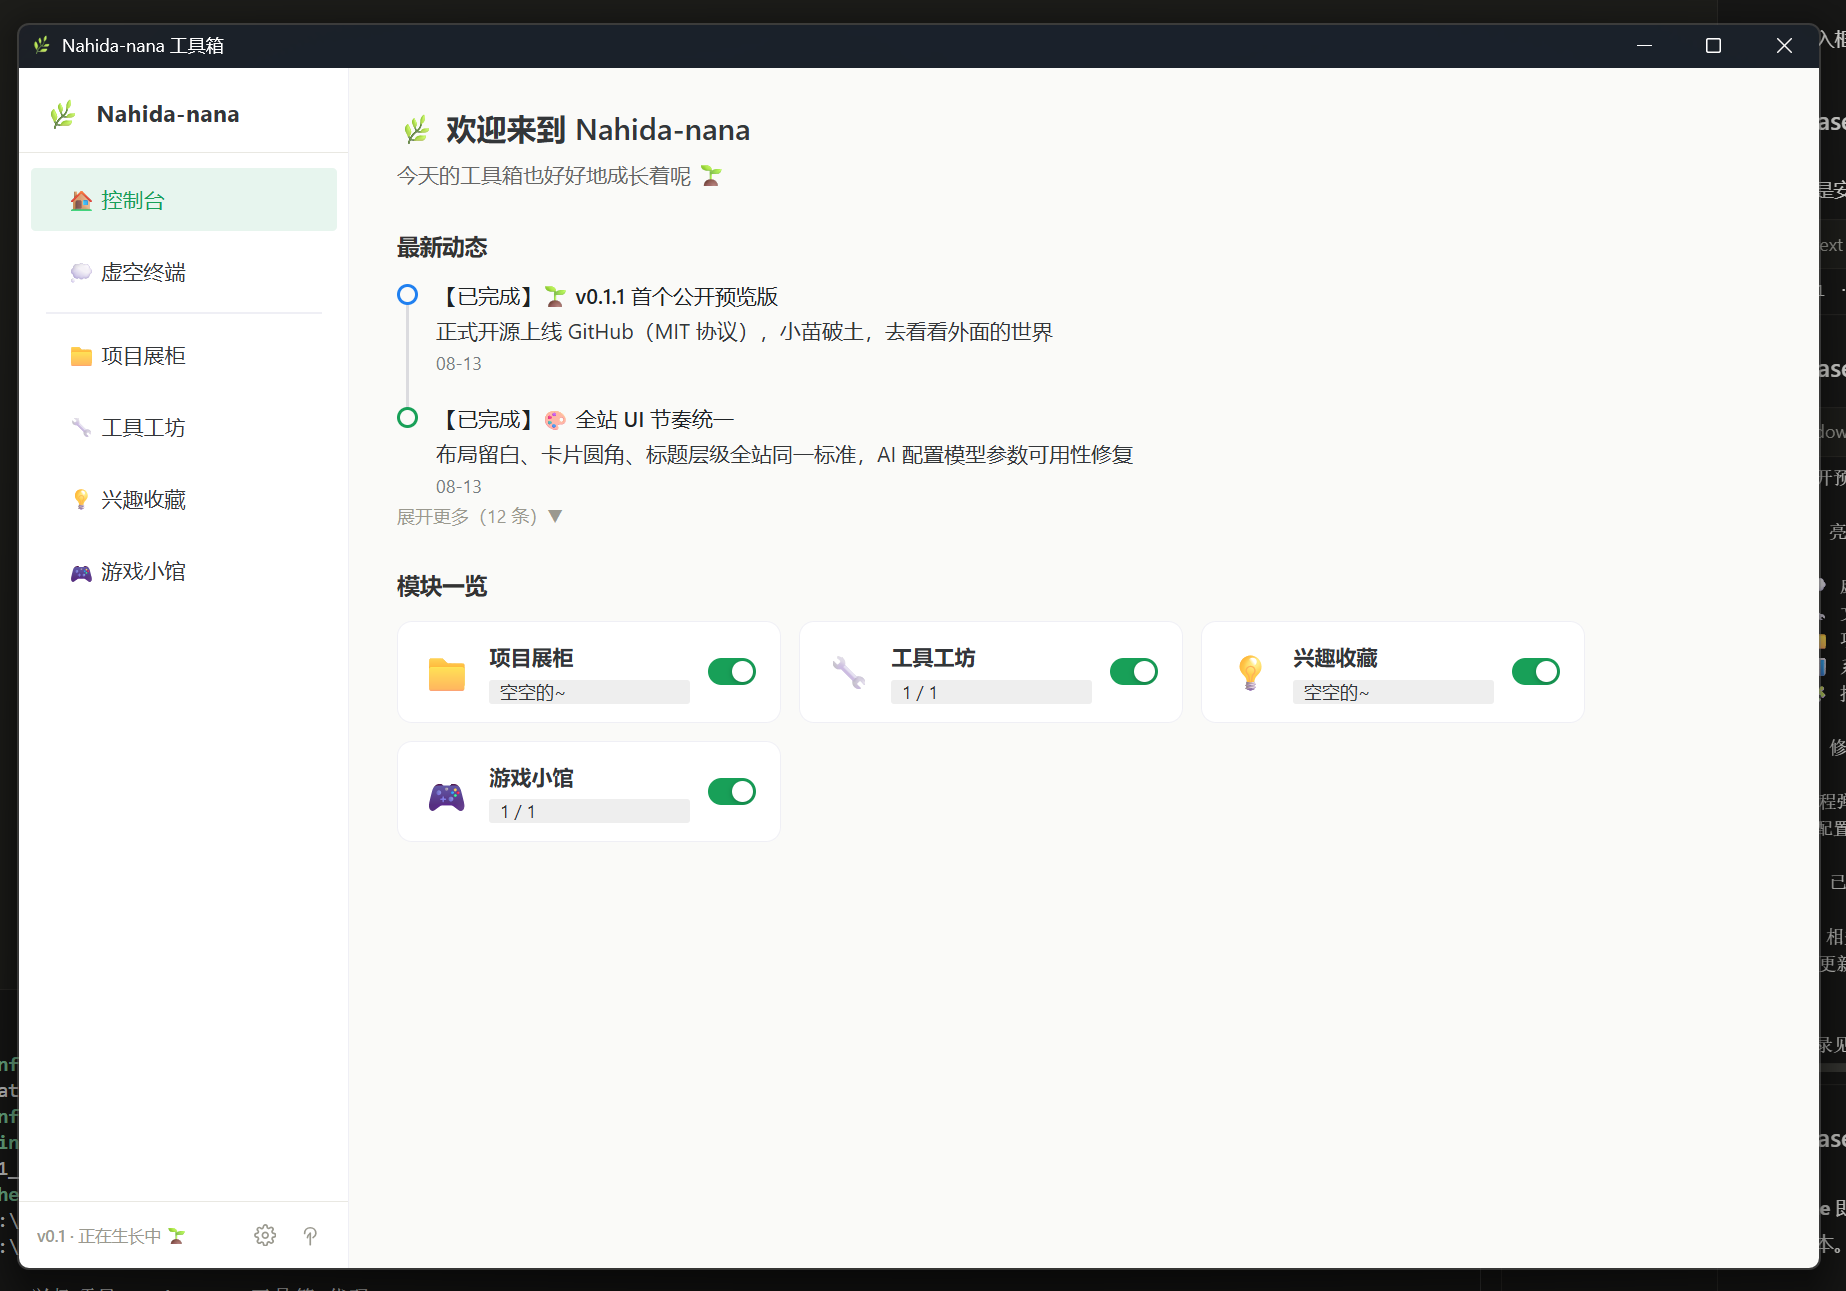
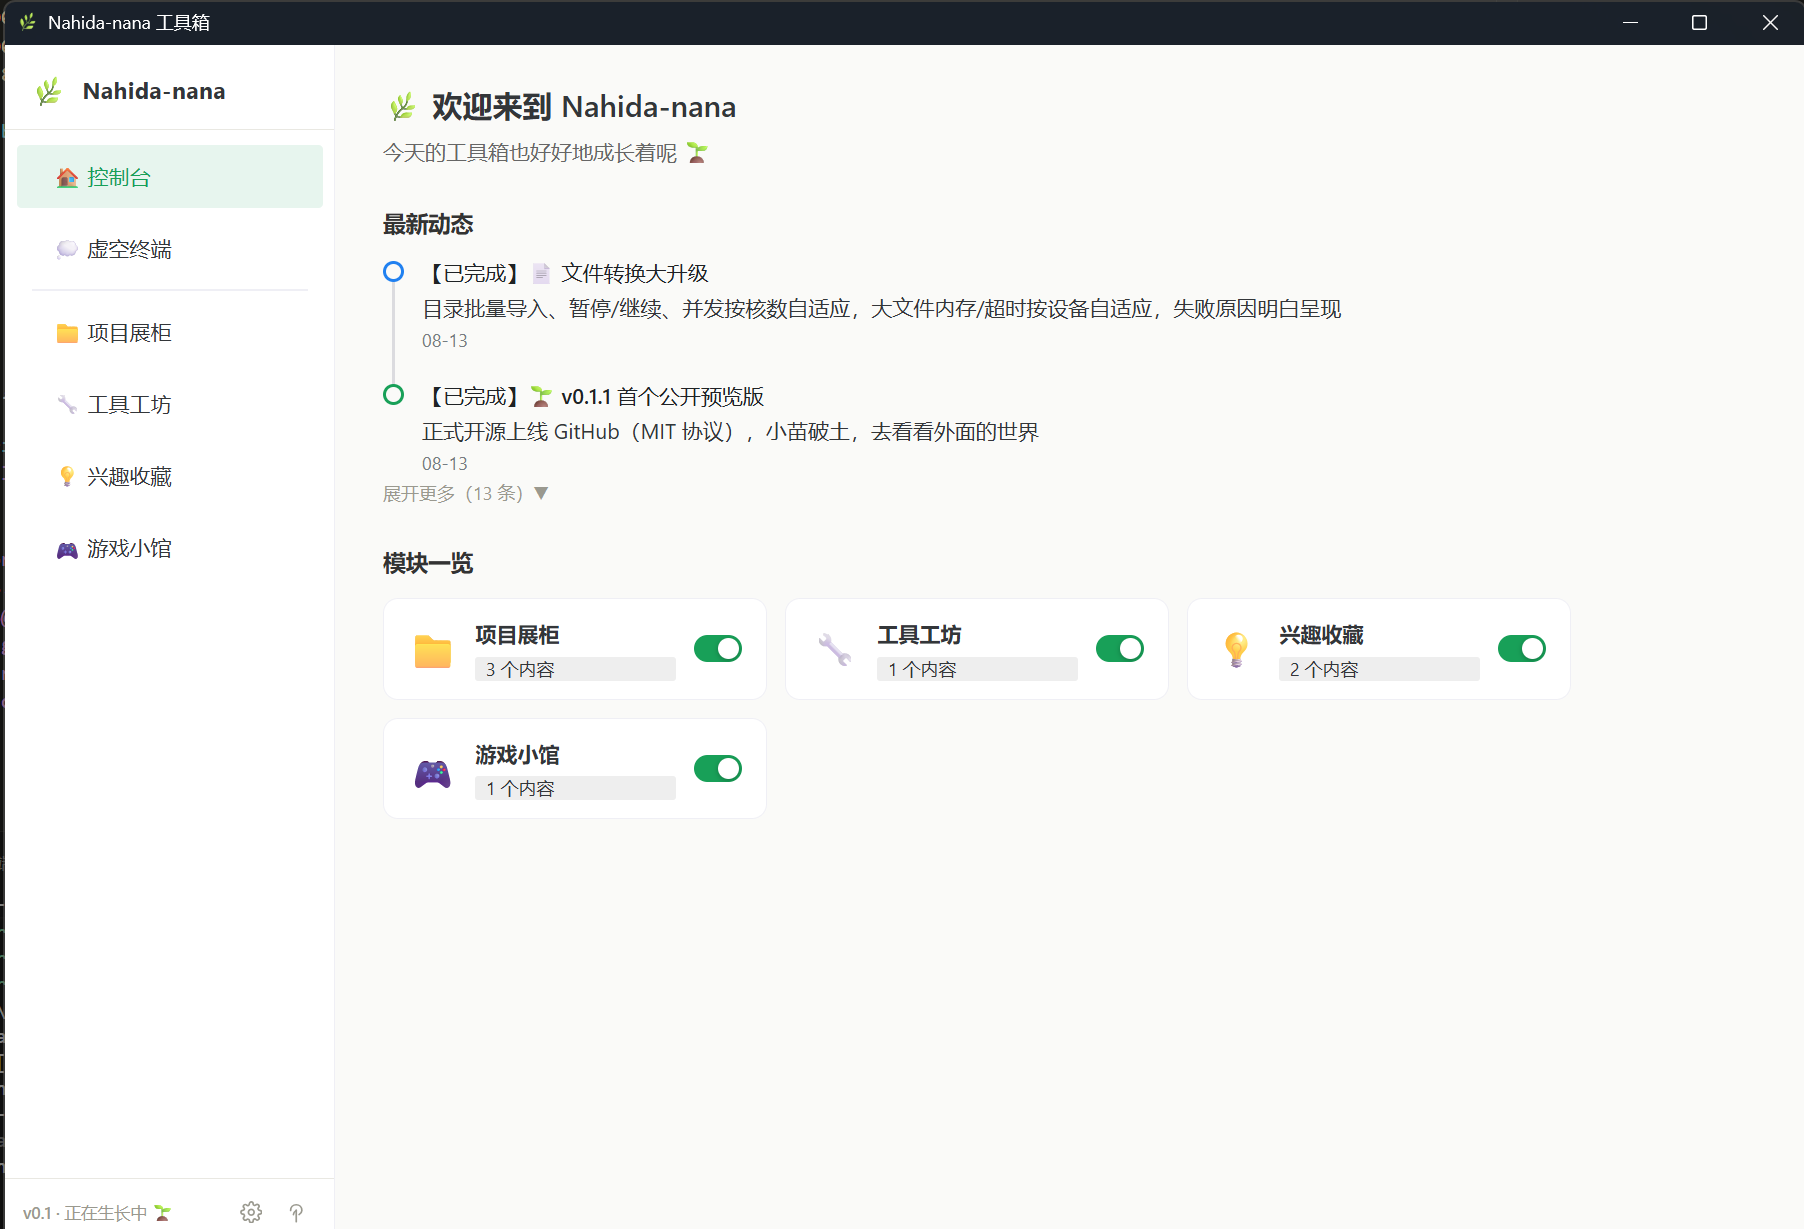
docs: v0.1.2 发布文档同步——CHANGELOG 按 v0.1.1 基线重写（去中间过程、补格式支持/依赖清理细节），README 更新转换能力与截图，requirements.txt 对齐实际依赖

diff --git a/CHANGELOG.md b/CHANGELOG.md
@@ -6,28 +6,29 @@
 
 ### ✨ 新增
 
-- 文件格式转换支持目录批量导入：拖拽文件夹、或拖放区点击「导入文件夹」，递归收集受支持文档（深度 ≤8，上限 500 个）
+- 目录批量导入：拖拽文件夹或点「选择文件夹」，递归收集受支持文档（深度 ≤8，上限 500 个，实时扫描进度反馈）
 - 转换中支持暂停/继续（进行中任务自然跑完，停派新任务）
 - 转换并发按 CPU 核数自动检测（核数 × 3/4，留 1/4 给系统，限幅 [2, 16]），充分利用多核
-- 同格式转换中性忽略：不计入成败，单独汇报「成功 X，失败 Y，忽略 N」
-- 导入成功提示：「导入成功：N 个文件，确认目标格式后点「开始转换」~」
-- 「开始转换」禁用原因悬停提示（未添加文件 / 未选输出目录 / 未选目标格式）
-- 文本读取编码自适应（新增 text_io.rs）：BOM 探测 → UTF-16 启发式 → UTF-8 → GB18030 兜底，GBK/UTF-16 老文件不再被拒
+- 同格式转换中性忽略：不计入成败，汇总单独汇报「成功 X，失败 Y，忽略 N」
+- 文本读取编码自适应（新增 text_io.rs）：BOM 探测 → UTF-16 启发式 → UTF-8 → GB18030 兜底，GBK/GB2312/UTF-16 老文件不再被拒或乱码
 
 ### 🔒 可靠性
 
 - 假成功全面清除：扫描版 PDF（无文字层）明确报错而非产出空文件；xhtml2pdf 渲染失败检查、reportlab XML 特殊字符转义、pdf2docx 空输出报错、流式转换器先读后写不留孤儿文件
 - 四层防空输出防线：Python 出口空输出报错、pdf_bridge 回退防护、convert_file 出口兜底校验、失败日志带文件名与具体原因
-- 子进程输出强制 UTF-8（PYTHONIOENCODING + 脚本内 reconfigure 双保险），根治中文 Windows 上错误信息乱码
-- 资源守卫按设备自适应：内存预算 = 物理内存 × 3/4 ÷ 并发数（替代旧 200MB 固定上限误杀大文件，保底 512MB）；超时按文件体积动态扩容（基础 5 分钟 + 每 100MB 追加 3 分钟，封顶 30 分钟）；非 PDF 原生路径超大文件入口守卫
+- 子进程输出强制 UTF-8，根治中文 Windows 上错误信息乱码
+- 资源守卫按设备自适应：内存预算 = 物理内存 × 3/4 ÷ 并发数（保底 512MB，替代误杀大文件的固定上限）；超时按文件体积动态扩容（基础 5 分钟 + 每 100MB 追加 3 分钟，封顶 30 分钟）；非 PDF 原生路径超大文件入口守卫
+
+### 🧹 格式支持与依赖清理
+
+- 支持格式弹窗展示完整转换矩阵与保真度说明；支持扩展名：md / markdown / txt / html / htm / docx / pdf
+- PDF 桥接依赖清单对齐实际代码：WeasyPrint 替换为 xhtml2pdf（纯 Python 免 GTK，消除 Windows 安装障碍），移除未使用的 camelot-py / opencv-python
 
 ### 🐛 修复
 
-- 拖拽文件夹被当作“不支持的格式”忽略、找不到任何文件：后端新增 collect_supported_files 命令（扩展名与前端 FORMAT_MAP 同源）
-- 拖拽 / 文件对话框 / 文件夹对话框三条导入路径统一收口，消除重复逻辑与行为差异
+- 拖拽文件夹被当作“不支持的格式”忽略、找不到任何文件：后端新增 collect_supported_files 命令（扩展名与前端 FORMAT_MAP 同源），三条导入路径统一收口
 - 批量设置目标格式时同格式文件保留旧目标被误转：现立即标记「已忽略」
 - 控制台模块一览计数改读真实内容源：项目展柜显示作品数、兴趣收藏显示书签数（响应式实时更新），不再永远“空空的~”
-- file-converter 插件描述与版本更新（五格式互转 / 批量导入 / 暂停继续）
 
 ## v0.1.1（2026-08-13）
 
